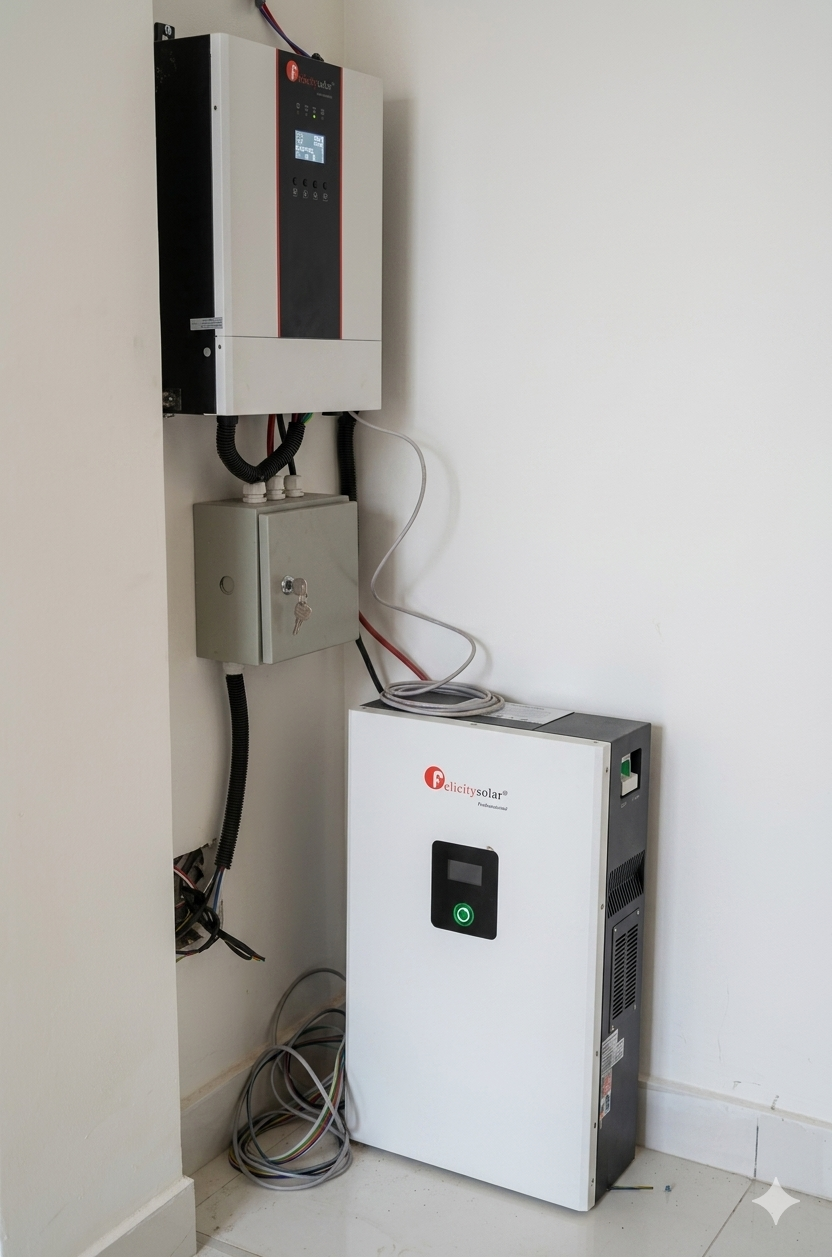
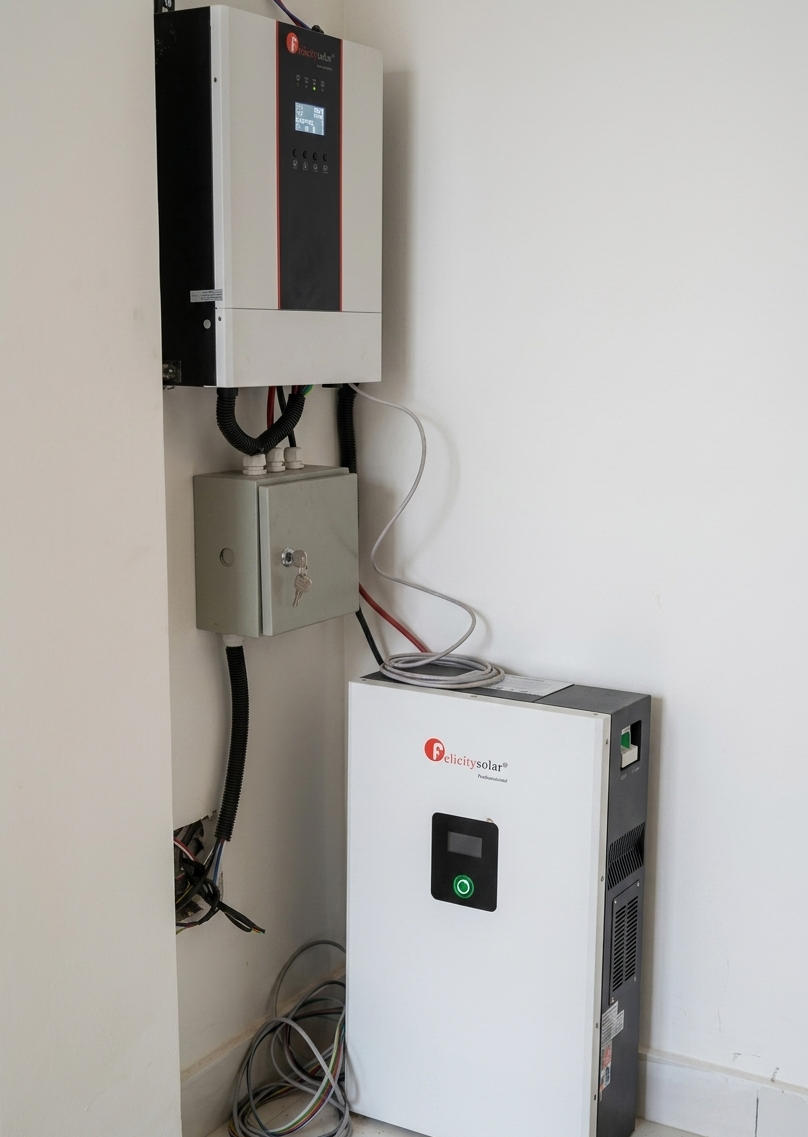
Añadido imagenes

Changed region(s): [[0.1238, 0.0, 1.0, 1.0], [0.9282, 0.8619, 0.9901, 0.8927], [0.9901, 0.8927, 1.0, 0.9235]]

diff --git a/src/components/public/CoursesSection.vue b/src/components/public/CoursesSection.vue
@@ -32,7 +32,7 @@
               <div class="absolute inset-0 bg-gradient-to-t from-background via-background/60 to-transparent"></div>
             </div>
             
-            <div :class="['absolute top-8 left-8 glass-premium rounded-full px-6 py-2.5 text-[10px] md:text-[11px] font-black uppercase tracking-widest border-on-surface/10 shadow-lg z-10', course.accentTextClass]">
+            <div :class="['absolute top-8 right-8 glass-premium rounded-full px-6 py-2.5 text-[10px] md:text-[11px] font-black uppercase tracking-widest border-on-surface/10 shadow-lg z-10', course.accentTextClass]">
               {{ course.duration }}
             </div>
 
@@ -87,7 +87,7 @@ const courses = ref([
     accentBgClass: 'bg-accent-neon',
     accentHoverClass: 'hover-neon-lift',
     btnClass: 'btn-primary-neon',
-    extraClass: '',
+    extraClass: '', 
     link: '/cursos/vivenciales'
   },
   {

diff --git a/src/views/public/CursosTecnicos.vue b/src/views/public/CursosTecnicos.vue
@@ -266,12 +266,13 @@ const cursosTecnicos = ref([
 }
 
 .img-gradient-overlay {
-  background: linear-gradient(135deg, rgba(255,255,255,0.16), rgba(255,255,255,0));
+  background: linear-gradient(135deg, rgba(255,255,255,0.24) 0%, rgba(255,255,255,0.08) 45%, rgba(255,255,255,0) 100%);
+  mix-blend-mode: overlay;
 }
 
 @media (prefers-color-scheme: dark) {
   .img-gradient-overlay {
-    background: linear-gradient(135deg, rgba(15, 23, 42, 0.34), rgba(15, 23, 42, 0));
+    background: linear-gradient(135deg, rgba(15, 23, 42, 0.45) 0%, rgba(15, 23, 42, 0.22) 45%, rgba(15, 23, 42, 0) 100%);
   }
 }
 
